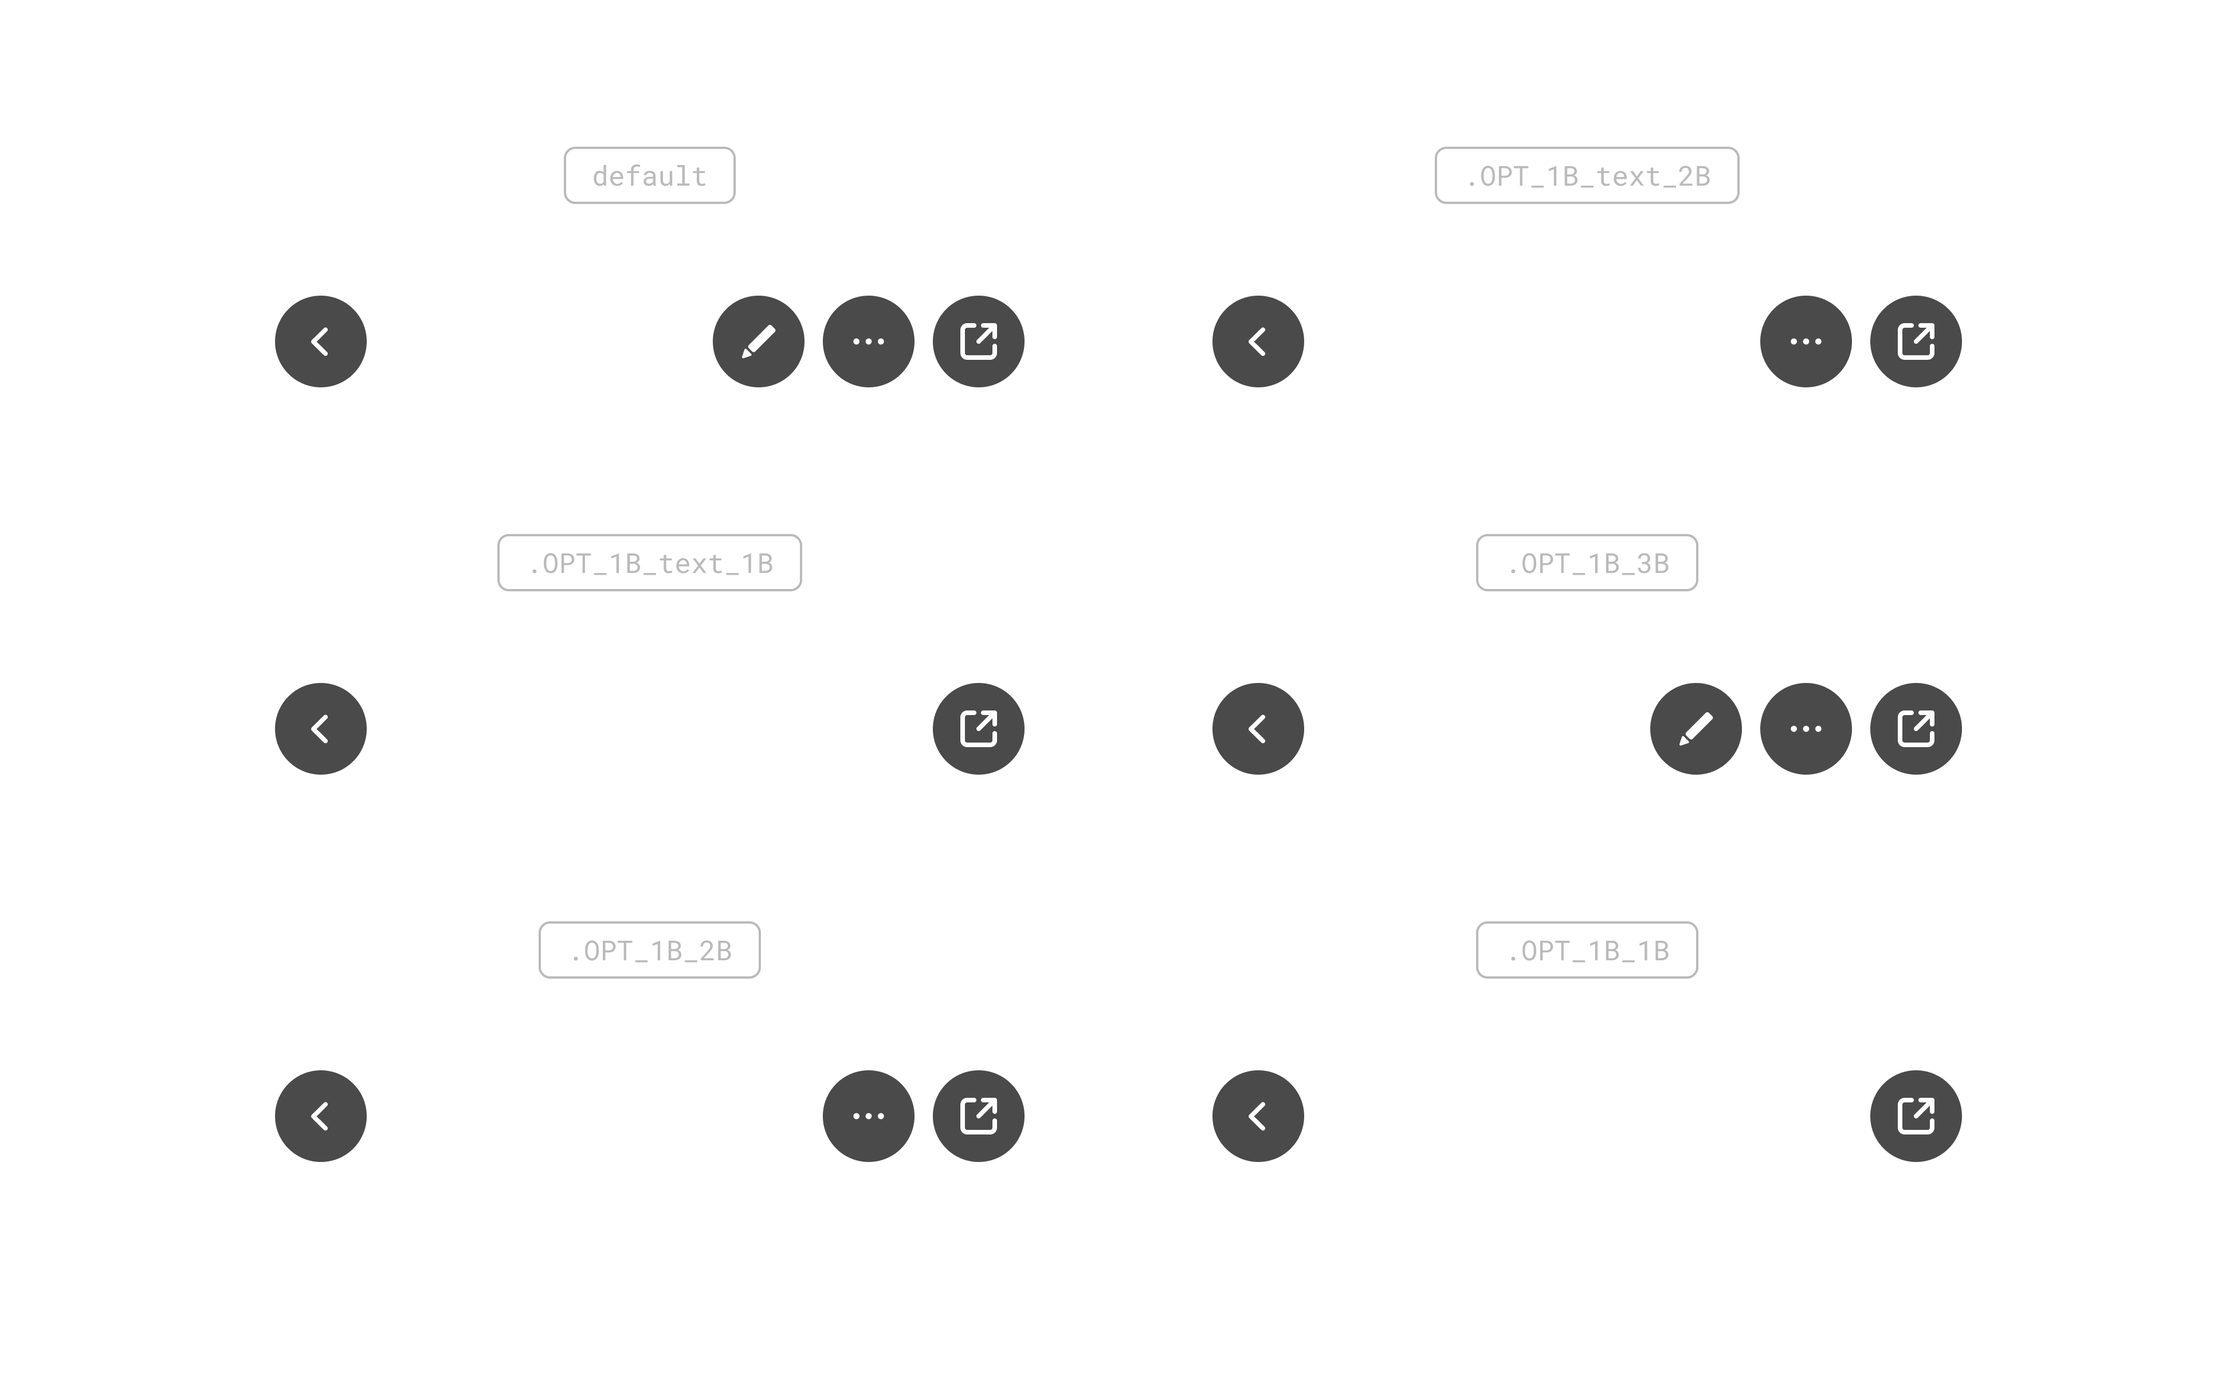
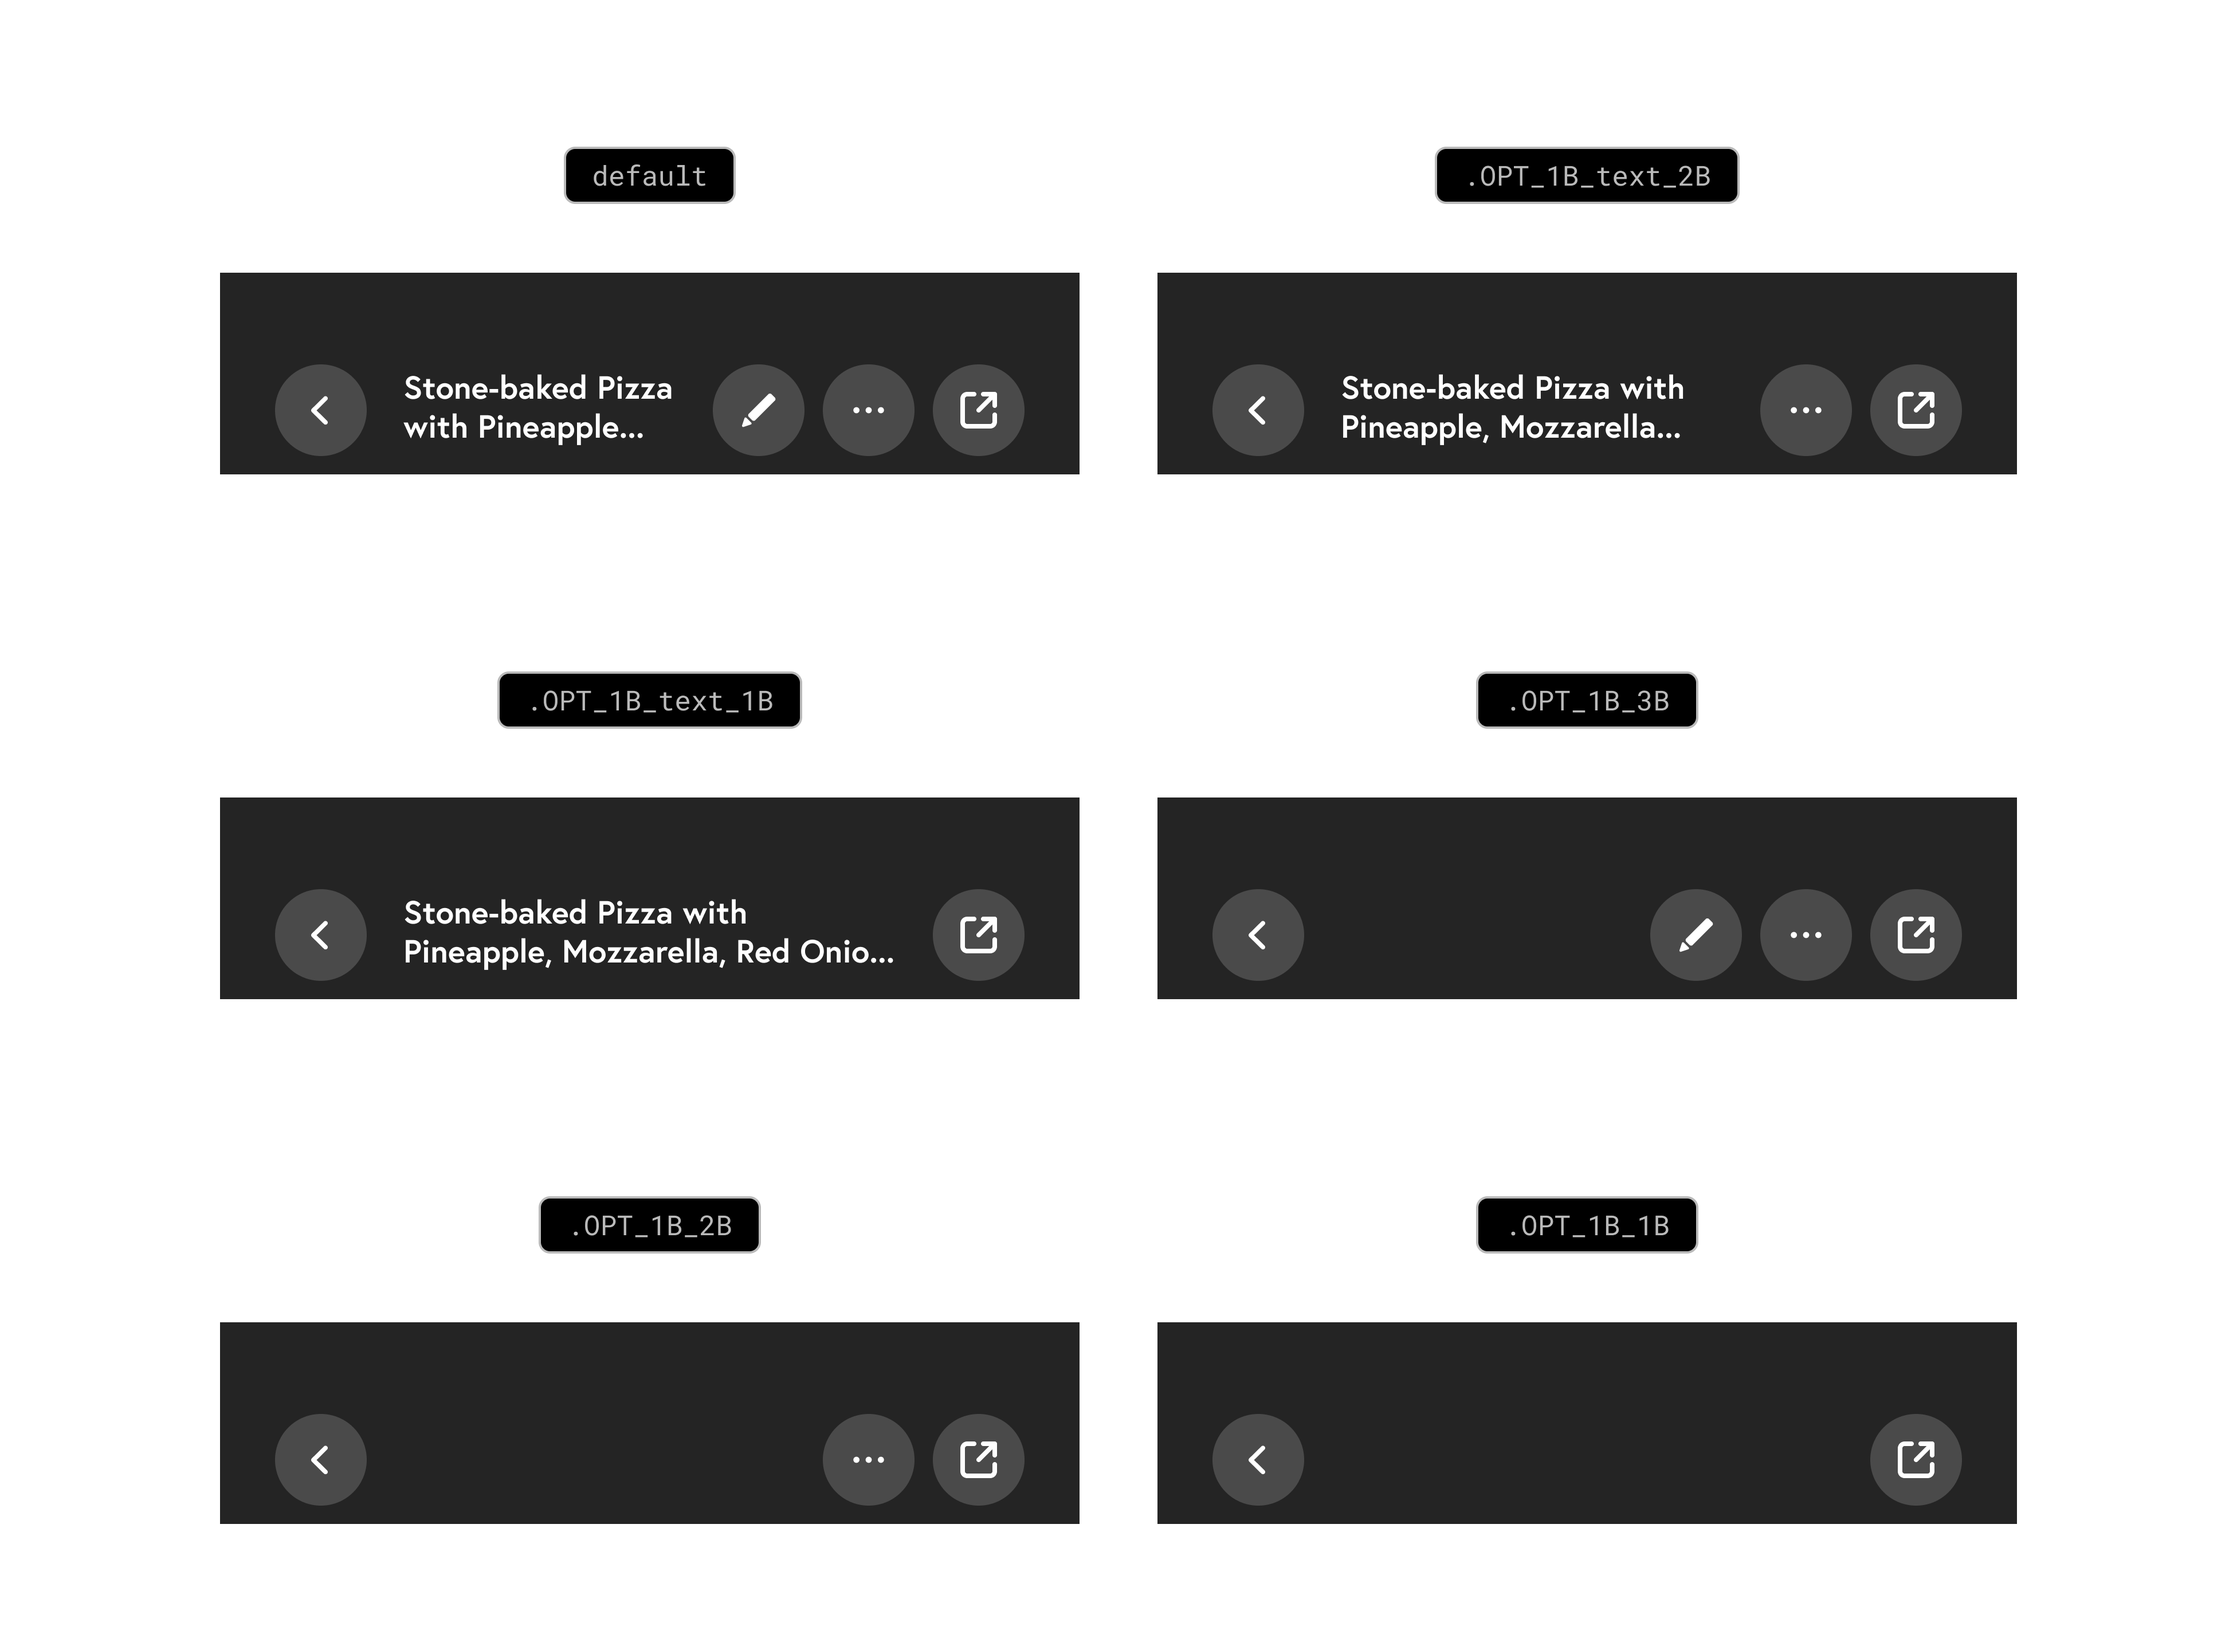
Adding Img Background Pattern (CSS style) to separate background from artifacts

Changed region(s): [[0.0938, 0.6841, 0.9062, 0.9328], [0.0938, 0.0622, 0.9062, 0.3109], [0.0938, 0.4042, 0.9062, 0.6219]]

diff --git a/docs/_sass/custom/custom.scss b/docs/_sass/custom/custom.scss
@@ -427,10 +427,28 @@ details[open] summary~* {
 img {
   border-radius: 8px;
   background-color: #fff;
-  border: 1px solid hsla(0, 0, 0, 0.1);
+  border: 1px solid #e5e5e5;
   margin: 2rem 0;
   // transform: translate3d(0,0,0);
 }
+.bgPattern_01 {
+  background-color: transparent;
+  background-image: url('../images/YPL-DOC-image_bg_pattern-light-01.png') !important;
+  background-position: 0 0;
+  background-repeat: repeat;
+  box-shadow: inset 28px 28px 0 0 #fff, inset -28px -28px 0 0 #fff;
+}
+.bgPattern_01.dark_mode {
+  background-color: transparent;
+  background-image: url('../images/YPL-DOC-image_bg_pattern-dark-01.png') !important;
+  background-position: 0 0;
+  background-repeat: repeat;
+  box-shadow: inset 28px 28px 0 0 #000, inset -28px -28px 0 0 #000;
+}
+
+
+
+
 p>img {
   margin: 0;
 }

diff --git a/docs/core/200-farfalle/090-Patterns/500-Content-Slider.md b/docs/core/200-farfalle/090-Patterns/500-Content-Slider.md
@@ -1,14 +1,14 @@
 ---
 project_name: Farfalle # title case
 project_id: FFL # 3-letter code
-title: NewComponentTemplate # title case
-UID: X0000 # ["P","E","F"] + Hexa code/index
-permalink: farfalle/elements/X0000-NewComponentTemplate # lowercase + use hyphens › https://tinyurl.com/27kmc4rb
+title: Content Slider # title case
+UID: P0010 # ["P","E","F"] + Hexa code/index
+permalink: farfalle/elements/content-slider-P0010 # lowercase + use hyphens › https://tinyurl.com/27kmc4rb
 grand_parent: Farfalle # title case · ⚠ ACTIVATE THIS
 parent: Patterns # title case — ["Elements","Patterns","Primitives","Choices"] 
 layout: default
-nav_order: 999
-nav_exclude: true
+nav_order: 500
+# nav_exclude: true
 ---
 
 
@@ -26,7 +26,7 @@ nav_exclude: true
 
 <br><br><br>
 
-UID: `X0000` · Variants: `-YYY` · Name/Title: `NewComponentTemplate`<br>
+UID: `P0010` · Variants: `-YYY` · Name/Title: `NewComponentTemplate`<br>
 `Lorem` + `Lorem_ipsum_dolor_sit_amet`
 {: .co_new}
 
@@ -43,7 +43,8 @@ UID: `X0000` · Variants: `-YYY` · Name/Title: `NewComponentTemplate`<br>
     Lorem_ipsum_dolor_sit_amet
 </p>
 
-![Preview]({{site.baseurl}}/assets/projects/{{page.project_id}}/images/YPL-DOC-FFL-X0000-preview_01.png){: .darkenabled}
+<!-- <img src="{{ site.baseurl }}/assets/projects/{{ page.project_id }}/images/YPL-DOC-{{ page.project_id }}-{{ page.UID }}-preview_01.png"> -->
+![Preview]({{site.baseurl}}/assets/projects/{{page.project_id}}/images/YPL-DOC-imgPlaceholder-Full.png){: .darkenabled}
 
 <!-- - TOC
 {:toc} -->
@@ -57,25 +58,27 @@ UID: `X0000` · Variants: `-YYY` · Name/Title: `NewComponentTemplate`<br>
   <input type="radio" name="variants" id="variant_UID1" checked="checked">
   <label for="variant_UID1">Variant_UID1</label>
   <div class="tab" markdown="1">
-![Preview]({{site.baseurl}}/assets/projects/{{page.project_id}}/images/YPL-DOC-FFL-X0000-YYY-preview_01.png){: .darkenabled}
+![Preview]({{site.baseurl}}/assets/projects/{{page.project_id}}/images/YPL-DOC-FFL-P0010-YYY-preview_01.png){: .darkenabled}
 Variant_Preview_#1
   </div>
   <input type="radio" name="variants" id="variant_UID2">
   <label for="variant_UID2">Variant_UID2</label>
   <div class="tab" markdown="1">
-![Preview]({{site.baseurl}}/assets/projects/{{page.project_id}}/images/YPL-DOC-FFL-X0000-YYY-preview_02.png){: .darkenabled}
+![Preview]({{site.baseurl}}/assets/projects/{{page.project_id}}/images/YPL-DOC-FFL-P0010-YYY-preview_02.png){: .darkenabled}
 Variant_Preview_#2
   </div>
   <input type="radio" name="variants" id="variant_UID3">
   <label for="variant_UID3">Variant_UID3</label>
   <div class="tab" markdown="1">
-![Preview]({{site.baseurl}}/assets/projects/{{page.project_id}}/images/YPL-DOC-FFL-X0000-YYY-preview_03.png){: .darkenabled}
+![Preview]({{site.baseurl}}/assets/projects/{{page.project_id}}/images/YPL-DOC-FFL-P0010-YYY-preview_03.png){: .darkenabled}
 Variant_Preview_#3
   </div>  
 </div> -->
 
 
-![Variations]({{ site.baseurl }}/assets/projects/{{ page.project_id }}/images/YPL-DOC-{{ page.project_id }}-{{ page.UID }}-variations_01.png){: .darkenabled}
+<!-- ![Variations]({{ site.baseurl }}/assets/projects/{{ page.project_id }}/images/YPL-DOC-{{ page.project_id }}-{{ page.UID }}-variations_01.png){: .darkenabled} -->
+![Variations]({{site.baseurl}}/assets/projects/{{page.project_id}}/images/YPL-DOC-imgPlaceholder-Full.png){: .darkenabled}
+
 
 <table id="variants-options">
   <!-- <caption>my caption</caption> -->
@@ -137,11 +140,19 @@ Variant_Preview_#3
 
 ### Layout
 
-![Layout Blueprint]({{site.baseurl}}/assets/projects/{{page.project_id}}/images/YPL-DOC-FFL-X0000-layout_01.png)
+
+<!-- ![Layout Blueprint]({{ site.baseurl }}/assets/projects/{{ page.project_id }}/images/YPL-DOC-{{ page.project_id }}-{{ page.UID }}-layout_01.png") -->
+![Layout Blueprint]({{site.baseurl}}/assets/projects/{{page.project_id}}/images/YPL-DOC-imgPlaceholder-Full.png){: .darkenabled}
+
+
 
 ### Dependencies
 
-![Dependencies Blueprint]({{site.baseurl}}/assets/projects/{{page.project_id}}/images/YPL-DOC-FFL-X0000-bp_dependencies_01.png)
+
+<!-- ![Dependencies Blueprint]({{ site.baseurl }}/assets/projects/{{ page.project_id }}/images/YPL-DOC-{{ page.project_id }}-{{ page.UID }}-bp_dependencies_01.png) -->
+![Dependencies Blueprint]({{site.baseurl}}/assets/projects/{{page.project_id}}/images/YPL-DOC-imgPlaceholder-Full.png){: .darkenabled}
+
+
 
 {% include dependency-tree.html %}
 
@@ -149,11 +160,17 @@ Variant_Preview_#3
 
 ## Decisions
 
-![Decisions Blueprint]({{site.baseurl}}/assets/projects/{{page.project_id}}/images/YPL-DOC-FFL-X0000-bp_decisions_01.png)
+<!-- ![Decisions Blueprint]({{ site.baseurl }}/assets/projects/{{ page.project_id }}/images/YPL-DOC-{{ page.project_id }}-{{ page.UID }}-bp_decisions_01.png) -->
+![Decisions Blueprint]({{site.baseurl}}/assets/projects/{{page.project_id}}/images/YPL-DOC-imgPlaceholder-Full.png){: .darkenabled}
+
+
 
 ### Options
 
-![Variations]({{ site.baseurl }}/assets/projects/{{ page.project_id }}/images/YPL-DOC-{{ page.project_id }}-{{ page.UID }}-variations_01.png){: .darkenabled}
+
+<!-- ![Variations]({{ site.baseurl }}/assets/projects/{{ page.project_id }}/images/YPL-DOC-{{ page.project_id }}-{{ page.UID }}-variations_01.png) -->
+![Variations]({{site.baseurl}}/assets/projects/{{page.project_id}}/images/YPL-DOC-imgPlaceholder-Full.png){: .darkenabled}
+
 
 {% include options-table.html %}
 

diff --git a/docs/core/200-farfalle/090-Patterns/180-Navigation.md b/docs/core/200-farfalle/090-Patterns/180-Navigation.md
@@ -46,12 +46,12 @@ nav_order: 180
   <input type="radio" name="variants" id="variant_UID1" checked="checked">
   <label for="variant_UID1">Complex navigation</label>
   <div class="tab" markdown="1">
-![Preview]({{site.baseurl}}/assets/projects/{{page.project_id}}/images/YPL-DOC-FFL-{{ page.UID }}-001-preview_01.png){: .darkenabled}
+![Preview]({{site.baseurl}}/assets/projects/{{page.project_id}}/images/YPL-DOC-FFL-{{ page.UID }}-001-preview_01.png){: .darkenabled .bgPattern_01}
   </div>
   <input type="radio" name="variants" id="variant_UID2">
   <label for="variant_UID2">Modal navigation</label>
   <div class="tab" markdown="1">
-![Preview]({{site.baseurl}}/assets/projects/{{page.project_id}}/images/YPL-DOC-FFL-{{ page.UID }}-002-preview_01.png){: .darkenabled}
+![Preview]({{site.baseurl}}/assets/projects/{{page.project_id}}/images/YPL-DOC-FFL-{{ page.UID }}-002-preview_01.png){: .darkenabled .bgPattern_01}
   </div> 
 </div>
 

diff --git a/docs/core/910-tools/999-Component-Template.md b/docs/core/910-tools/999-Component-Template.md
@@ -43,8 +43,8 @@ UID: `X0000` · Variants: `-YYY` · Name/Title: `NewComponentTemplate`<br>
     Lorem_ipsum_dolor_sit_amet
 </p>
 
-<!-- <img src="{{ site.baseurl }}/assets/projects/{{ page.project_id }}/images/YPL-DOC-{{ page.project_id }}-{{ page.UID }}-preview_01.png"> -->
-![Preview]({{site.baseurl}}/assets/projects/{{page.project_id}}/images/YPL-DOC-imgPlaceholder-Full.png){: .darkenabled}
+![Preview]({{ site.baseurl }}/assets/projects/{{ page.project_id }}/images/YPL-DOC-{{ page.project_id }}-{{ page.UID }}-preview_01.png)
+<!-- ![Preview]({{site.baseurl}}/assets/projects/{{page.project_id}}/images/YPL-DOC-imgPlaceholder-Full.png){: .darkenabled} -->
 
 <!-- - TOC
 {:toc} -->

diff --git a/docs/core/200-farfalle/090-Patterns/190-Header.md b/docs/core/200-farfalle/090-Patterns/190-Header.md
@@ -61,7 +61,7 @@ Variant_Preview_#3
 </div> -->
 
 
-![Variations]({{ site.baseurl }}/assets/projects/{{ page.project_id }}/images/YPL-DOC-{{ page.project_id }}-{{ page.UID }}-variations_01.png){: .darkenabled}
+![Variations]({{ site.baseurl }}/assets/projects/{{ page.project_id }}/images/YPL-DOC-{{ page.project_id }}-{{ page.UID }}-variations_01.png){: .darkenabled .bgPattern_01}
 <!-- ![Variations]({{site.baseurl}}/assets/projects/{{page.project_id}}/images/YPL-DOC-imgPlaceholder-Full.png){: .darkenabled} -->
 
 
